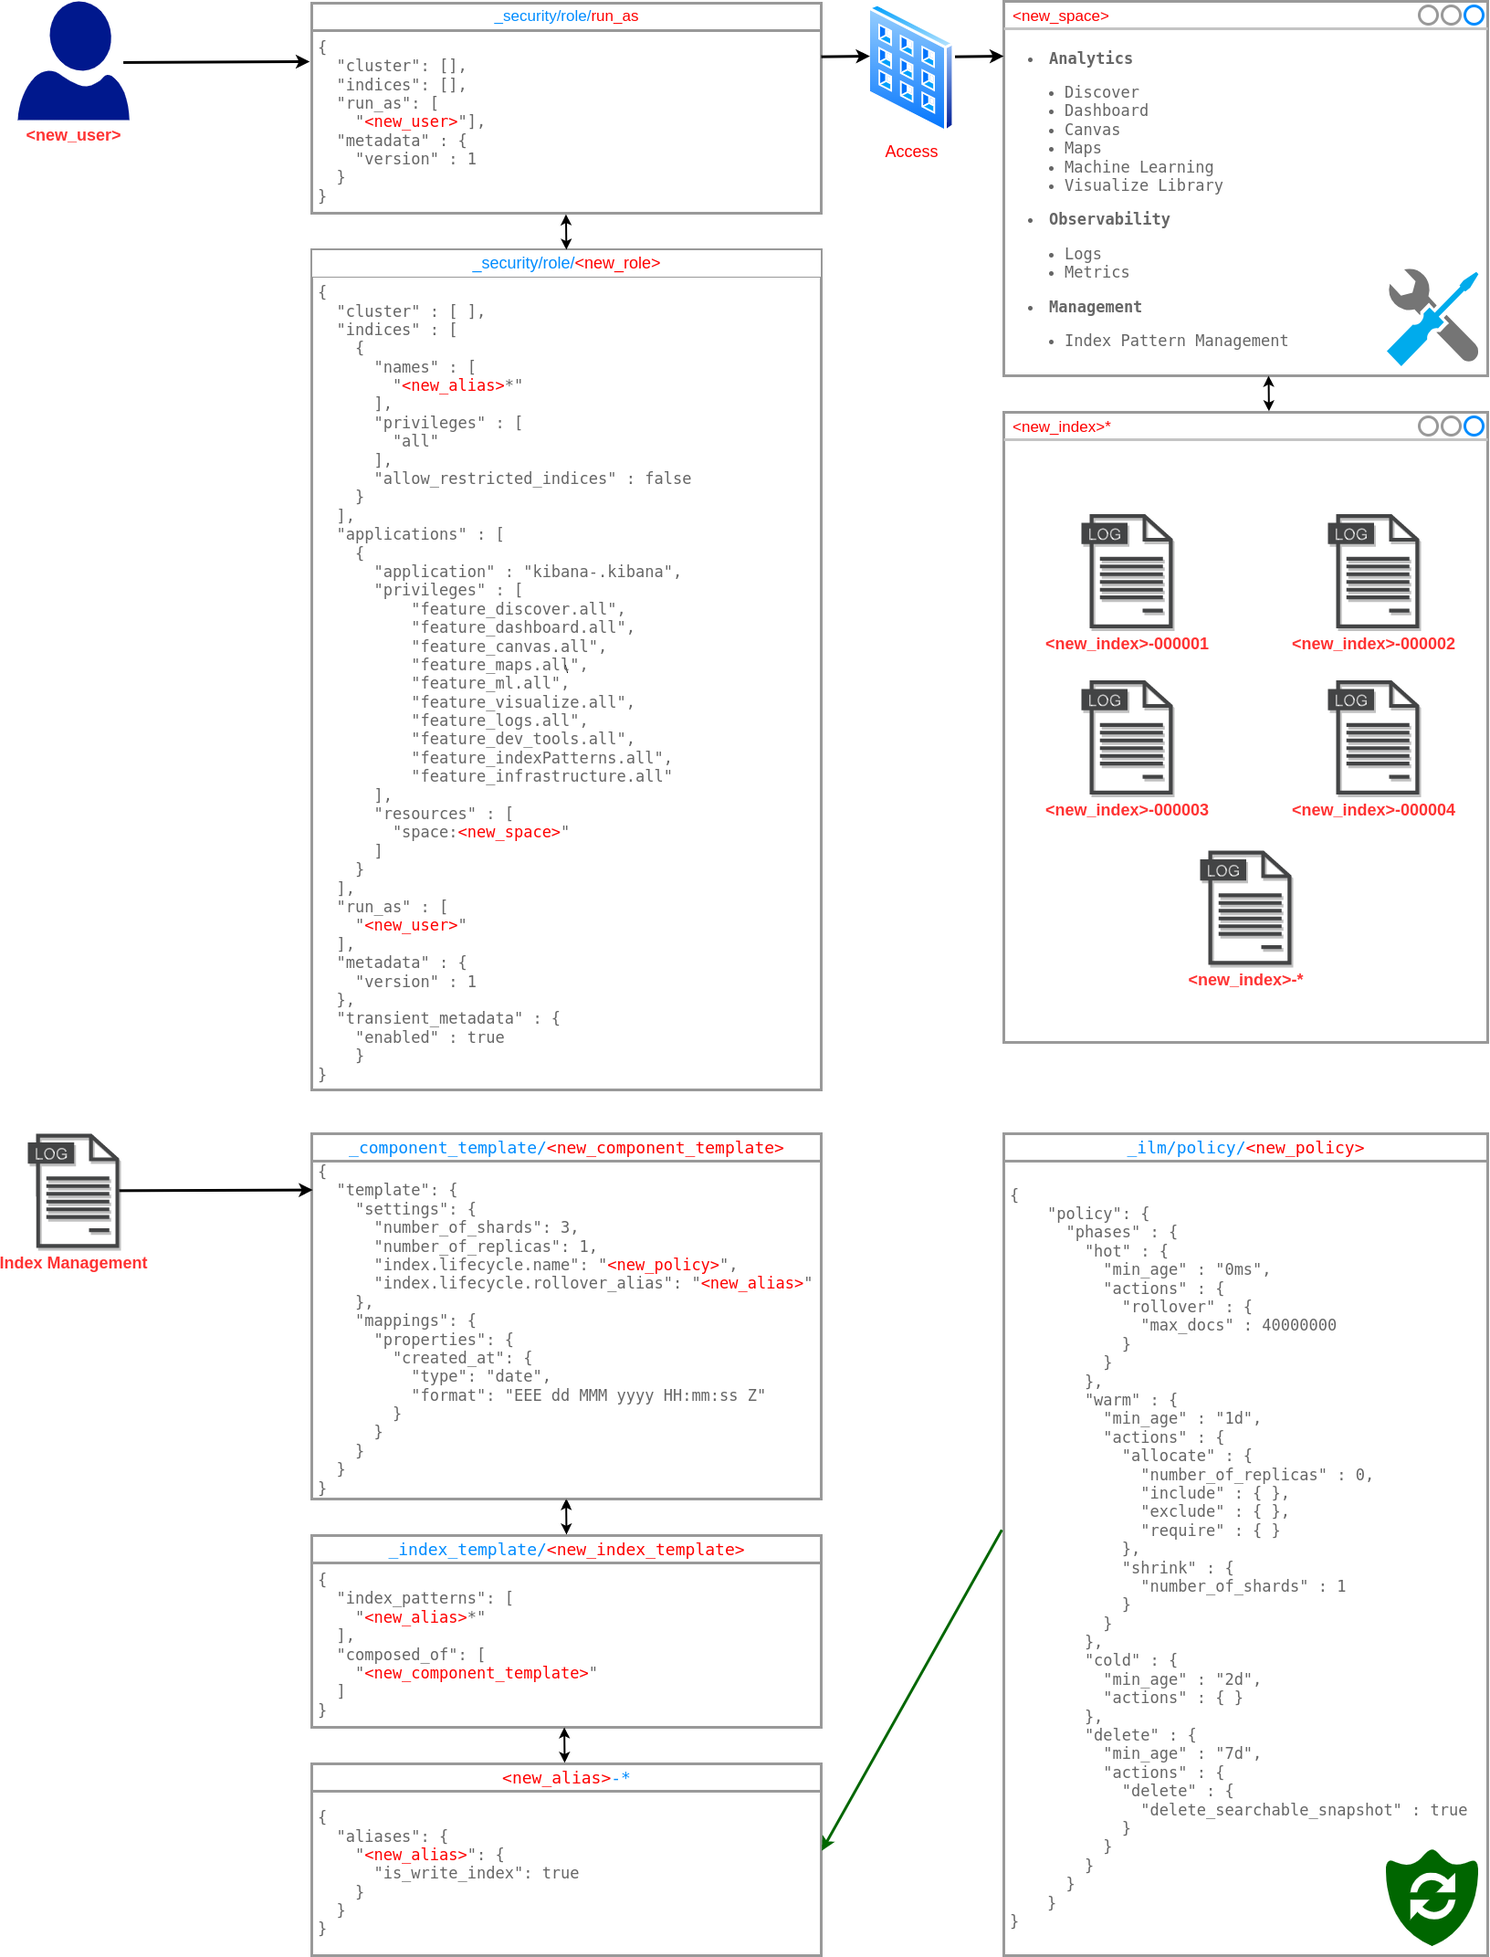
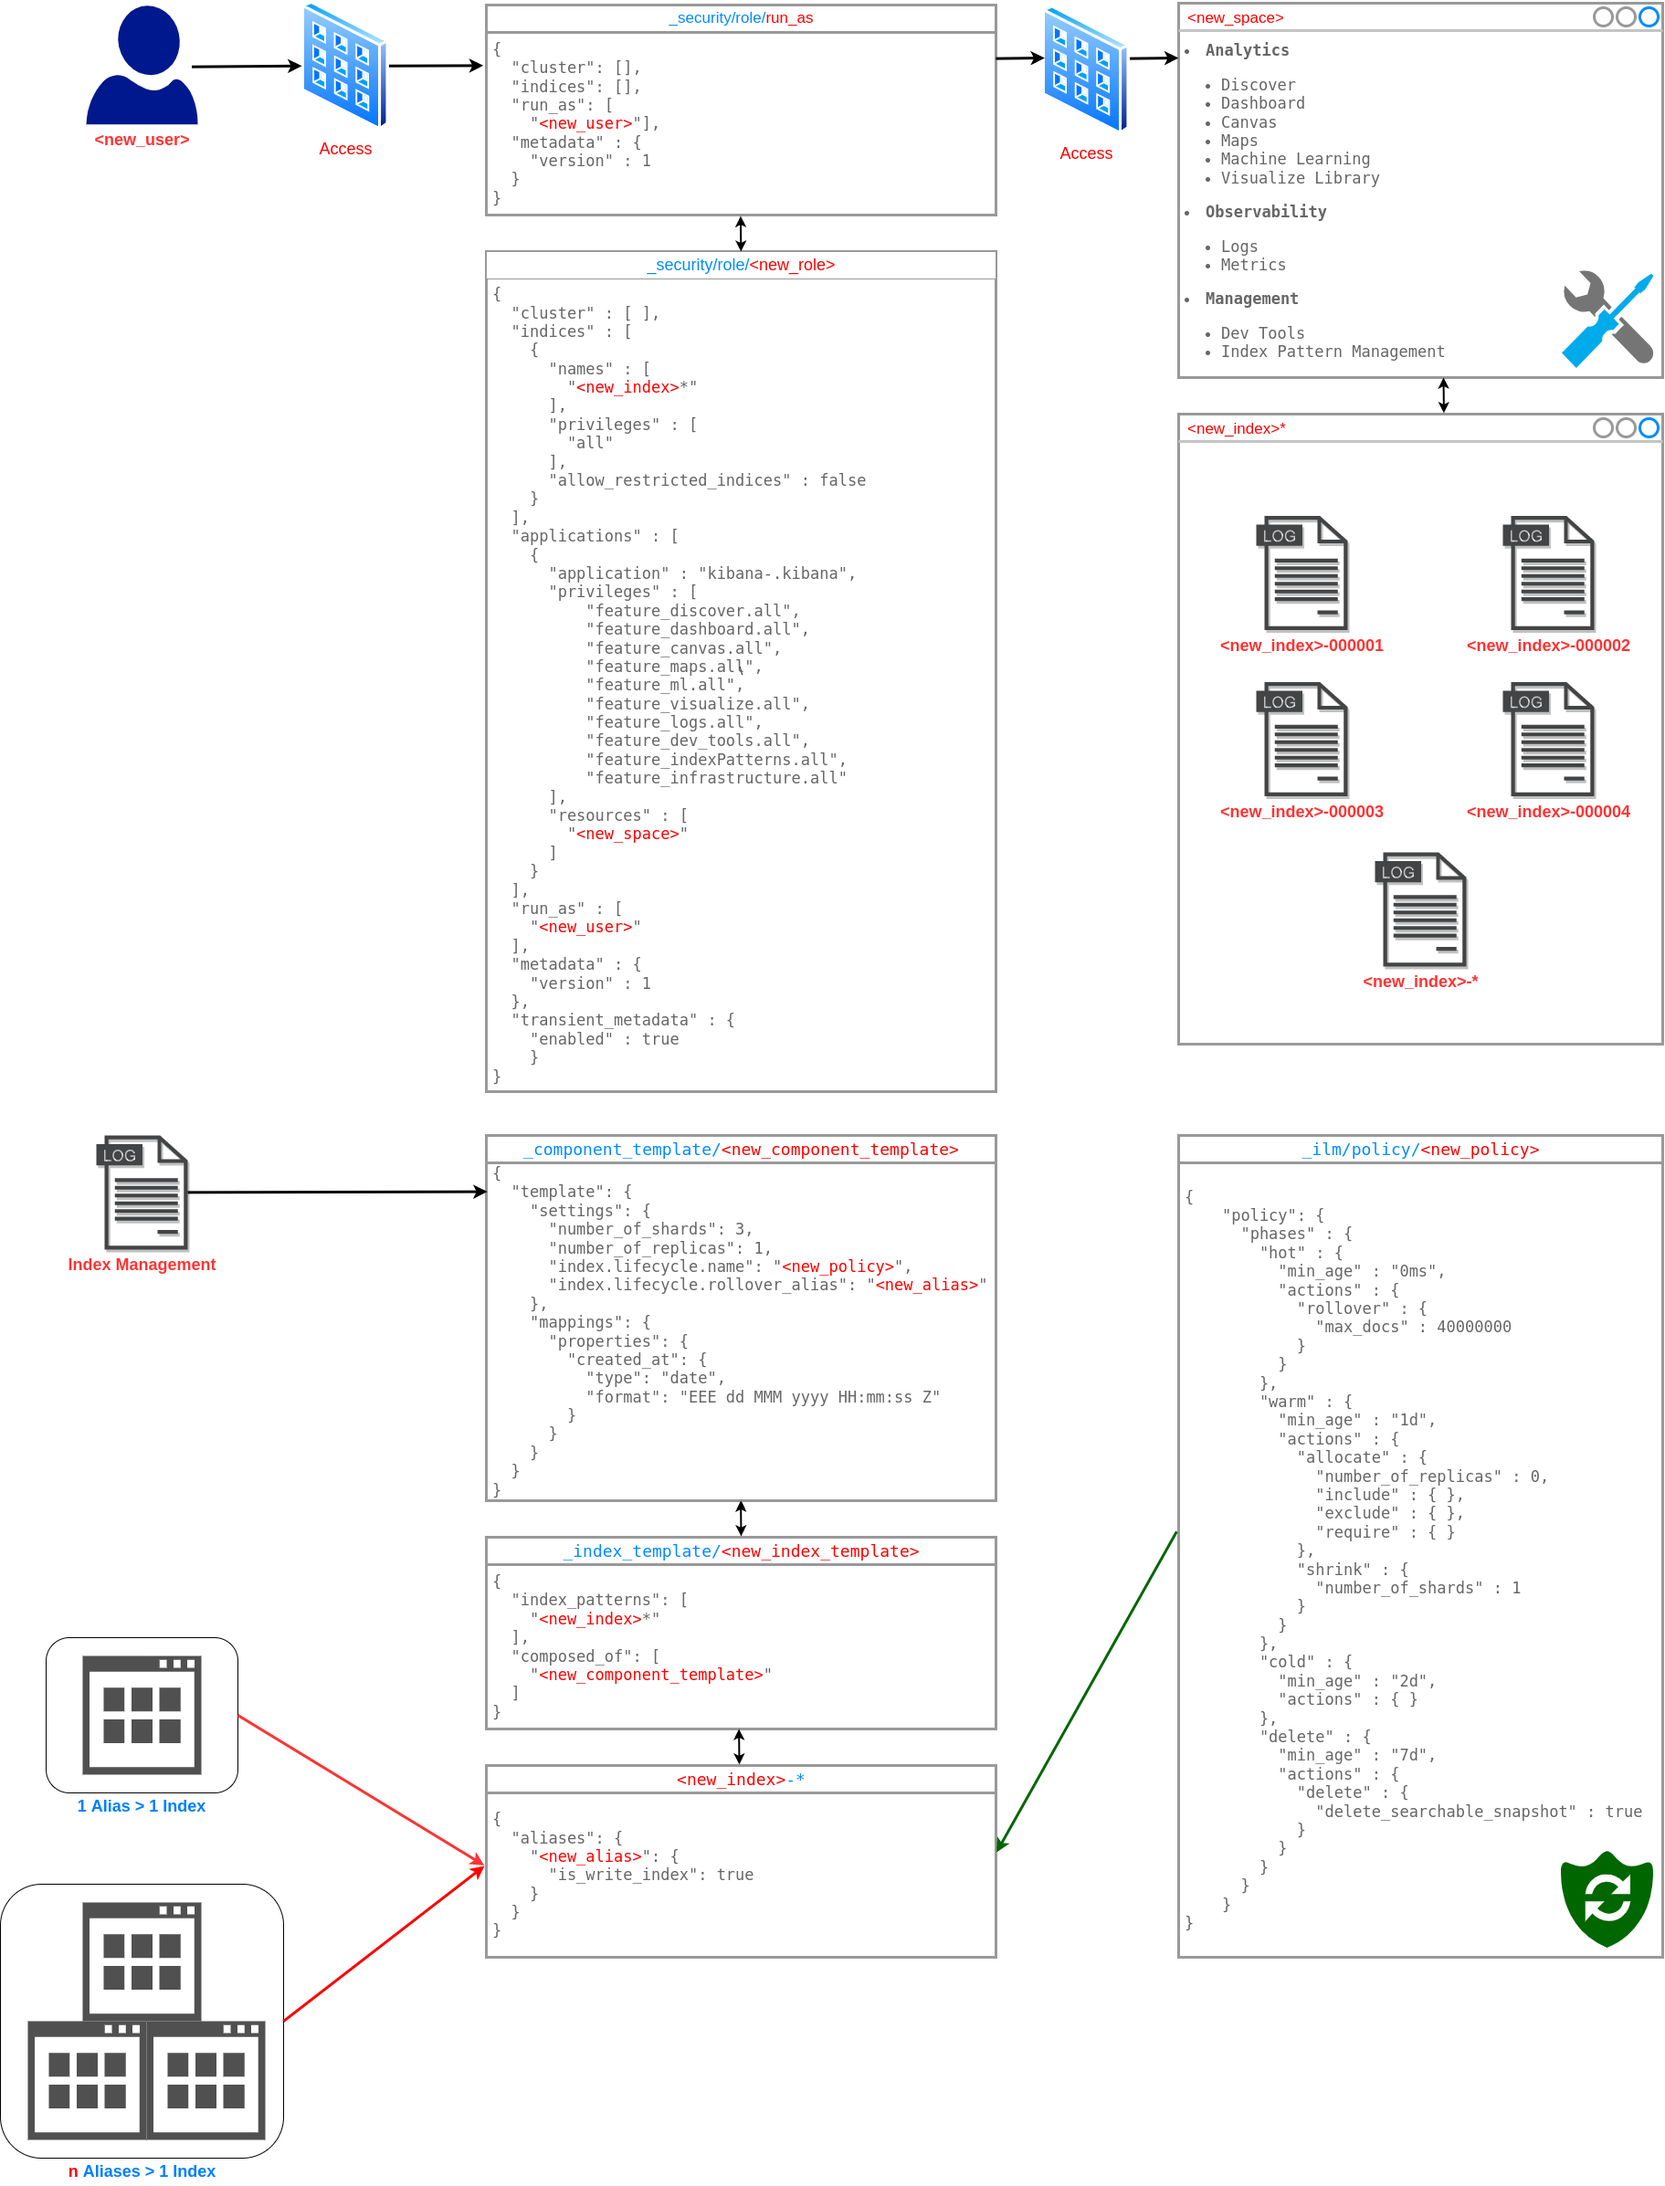
Atualizacao

diff --git a/elastic/elastic.md b/elastic/elastic.md
@@ -162,7 +162,7 @@ PUT _security/role/run_as
 
 ## Role ▶ `Dev Tools`<br>
 
-**Create role `new_role`, including `new_space` and `new_user` [🔗Create or update roles API](https://www.elastic.co/guide/en/elasticsearch/reference/7.17/security-api-put-role.html)**<br>
+**Create role `new_role`, including `new_alias`, `new_space` and `new_user` [🔗Create or update roles API](https://www.elastic.co/guide/en/elasticsearch/reference/7.17/security-api-put-role.html)**<br>
 ```diff
 - Run GET to check if already exist this role, before running PUT
 ```
@@ -172,7 +172,9 @@ PUT _security/role/<new_role>
   "cluster" : [ ],
   "indices" : [
     {
-      "names" : [ ],
+      "names" : [
+        "<new_alias>*"
+      ],
       "privileges" : [
         "all"
       ],
@@ -316,52 +318,8 @@ PUT <new_alias>-000001
   }
 }
 ```
-
-**Allow access `new_alias` to all users belong to `new_role` [🔗Create or update roles API](https://www.elastic.co/guide/en/elasticsearch/reference/7.17/security-api-put-role.html)**<br>
-```json
-PUT _security/role/<new_role>
-{
-  "cluster" : [ ],
-  "indices" : [
-    {
-      "names" : [
-        "<new_alias>*"
-      ],
-      "privileges" : [
-        "all"
-      ],
-      "allow_restricted_indices" : false
-    }
-  ],
-  "applications" : [
-    {
-      "application" : "kibana-.kibana",
-      "privileges" : [
-          "feature_discover.all",
-          "feature_dashboard.all",
-          "feature_canvas.all",
-          "feature_maps.all",
-          "feature_ml.all",
-          "feature_visualize.all",
-          "feature_logs.all",
-          "feature_indexPatterns.all",
-          "feature_infrastructure.all"
-      ],
-      "resources" : [
-        "space:<new_space>"
-      ]
-    }
-  ],
-  "run_as" : [
-    "<new_user>"
-  ],
-  "metadata" : {
-    "version" : 1
-  },
-  "transient_metadata" : {
-    "enabled" : true
-    }
-}
+```diff
++ **aliases:** "<new_alias1>","<new_alias2>"* > more than one alias to same index
 ```
 
 ## Index Pattern ▶ `Management > Stack Management > Kibana > Index Patterns`<br>

diff --git a/filebeat/filebeat.md b/filebeat/filebeat.md
@@ -5,6 +5,68 @@
 **Commands**
 ```bash
 sudo filebeat modules list
+docker rm -f filebeat && docker compose -f /vagrant/files/filebeat-docker-compose.yml up -d && docker logs -f filebeat
+```
+
+**Logs Policy**
+```json
+PUT _ilm/policy/filebeat-7.17.3-srv01-policy
+{
+    "policy": {
+      "phases" : {
+        "hot" : {
+          "min_age" : "0ms",
+          "actions" : {
+            "rollover" : {
+              "max_docs" : 10000
+            }
+          }
+        },
+        "warm" : {
+          "min_age" : "1d",
+          "actions" : {
+            "allocate" : {
+              "number_of_replicas" : 0,
+              "include" : { },
+              "exclude" : { },
+              "require" : { }
+            },
+            "shrink" : {
+              "number_of_shards" : 1
+            }
+          }
+        },
+        "cold" : {
+          "min_age" : "2d",
+          "actions" : { }
+        },
+        "delete" : {
+          "min_age" : "7d",
+          "actions" : {
+            "delete" : {
+              "delete_searchable_snapshot" : true
+            }
+          }
+        }
+      }
+    }
+}
+```
+
+**+ Create index pattern**
+  - **Name:** `new_alias`
+  - **Timestamp field:** @timestamp
+
+**Loop Bash**
+```bash
+#!/bin/bash
+for i in {1..25000}
+do
+        echo 'Sequence:' $i
+        echo 'Lorem ipsum dolor sit amet, consectetur adipiscing elit' | sudo tee -a /var/log/test.log
+        echo 'Ut enim ad minim veniam' | sudo tee -a /var/log/test.log
+        echo '--------------'
+done
 ```
 
 ## filebeat.yml
@@ -21,3 +83,4 @@ https://doc.hcs.huawei.com/usermanual/mrs/mrs_01_1501.html<br>
 https://logz.io/blog/filebeat-tutorial/<br>
 https://github.com/shazChaudhry/docker-elastic/blob/master/filebeat-docker-compose.yml<br>
 https://gigi.nullneuron.net/gigilabs/filebeat-elasticsearch-and-kibana-with-docker-compose/<br>
+https://linuxhint.com/bash-for-loop-1-to-10/<br>
